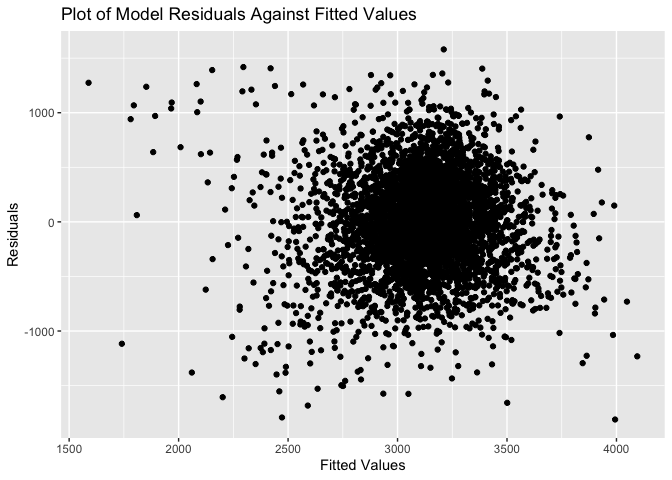
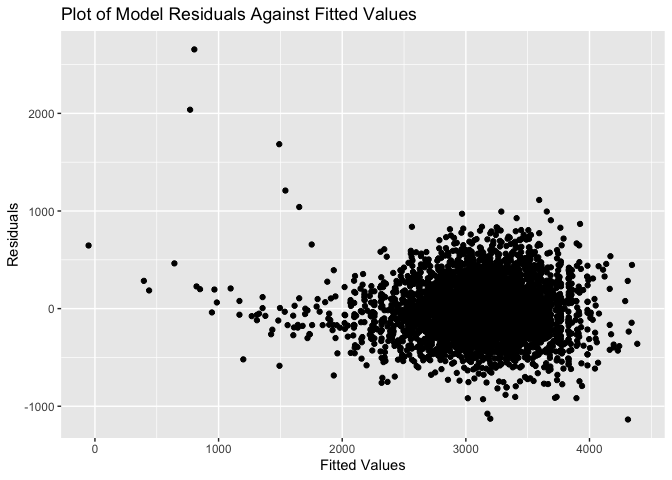
Problem 2

diff --git a/p8105_hw6_zz2899.md b/p8105_hw6_zz2899.md
@@ -8,7 +8,7 @@ Zoey Zhao
 ### Build a model
 
 Considering baby’s birth weight as a outcome might depend on mother’s
-age, smoking status, gestational age, and weight at delivery.
+age, baby’s length and head circumference.
 
 ``` r
 birthweight<- 
@@ -16,8 +16,23 @@ birthweight<-
   mutate(babysex = as.factor(babysex))%>%
   na.omit()
 
-fit1 = lm(bwt ~ momage + smoken + gaweeks + delwt, data = birthweight)
+fit1 <- lm(bwt ~ momage + blength + bhead + blength*bhead +  momage*blength +momage*bhead + momage*blength*bhead, data = birthweight)
+
+fit1%>%
+  broom::tidy() %>% 
+  knitr::kable(digits = 3)
 ```
+
+| term                 |  estimate | std.error | statistic | p.value |
+|:---------------------|----------:|----------:|----------:|--------:|
+| (Intercept)          | 12337.376 |  4722.127 |     2.613 |   0.009 |
+| momage               |  -836.642 |   240.664 |    -3.476 |   0.001 |
+| blength              |  -276.060 |    98.109 |    -2.814 |   0.005 |
+| bhead                |  -432.312 |   142.930 |    -3.025 |   0.003 |
+| blength:bhead        |    11.289 |     2.937 |     3.844 |   0.000 |
+| momage:blength       |    16.373 |     4.979 |     3.288 |   0.001 |
+| momage:bhead         |    26.375 |     7.260 |     3.633 |   0.000 |
+| momage:blength:bhead |    -0.512 |     0.149 |    -3.445 |   0.001 |
 
 ``` r
 birthweight %>% 
@@ -48,7 +63,7 @@ cv_df =
 cv_df = 
   cv_df %>% 
   mutate(
-    fit1  = map(train, ~lm(bwt ~ momage + smoken + gaweeks + delwt, data = .x)),
+    fit1  = map(train, ~lm(bwt ~ momage + blength + bhead + blength*bhead +  momage*blength +momage*bhead + momage*blength*bhead, data = .x)),
     fit2  = map(train, ~lm(bwt ~ blength + gaweeks, data = .x)),
     fit3  = map(train, ~lm(bwt ~ blength + bhead + babysex + blength*bhead + bhead*babysex + blength*babysex + blength*babysex*bhead, data = .x))) %>% 
   mutate(
@@ -68,9 +83,128 @@ cv_df %>%
 ```
 
 ![](p8105_hw6_zz2899_files/figure-gfm/unnamed-chunk-5-1.png)<!-- -->
-According to the result of cross-validation, the RMSE for the third
-model (the one using head circumference, length, sex, and all
-interactions between these) is the smallest, indicating that this model
-could be better than other two models.
+According to the result of cross-validation, the RMSEs for the first and
+the third model are smaller than the second one, indicating that the
+second model might not be as good as the first and the third one.
 
 # Problem 2
+
+``` r
+weather_df = 
+  rnoaa::meteo_pull_monitors(
+    c("USW00094728"),
+    var = c("PRCP", "TMIN", "TMAX"), 
+    date_min = "2017-01-01",
+    date_max = "2017-12-31") %>%
+  mutate(
+    name = recode(id, USW00094728 = "CentralPark_NY"),
+    tmin = tmin / 10,
+    tmax = tmax / 10) %>%
+  select(name, id, everything())
+```
+
+``` r
+fit4 <-
+  lm(tmax ~ tmin, data = weather_df) 
+
+fit4%>% 
+  broom::tidy() %>% 
+  knitr::kable(digits = 3)
+```
+
+| term        | estimate | std.error | statistic | p.value |
+|:------------|---------:|----------:|----------:|--------:|
+| (Intercept) |    7.209 |     0.226 |    31.847 |       0 |
+| tmin        |    1.039 |     0.017 |    61.161 |       0 |
+
+Use 5000 bootstrap samples and, for each bootstrap sample, produce
+estimates of these two quantities.
+
+``` r
+boot_sample <- function(df) {
+  sample_frac(df, replace = TRUE)
+}
+
+boot_straps = 
+  tibble(
+    strap_number = 1:5000,
+    strap_sample = rerun(5000, boot_sample(weather_df))
+  )
+```
+
+``` r
+bootstrap_results <- 
+  boot_straps %>% 
+  mutate(
+    models = map(strap_sample, ~lm(tmax ~ tmin, data = .x) ),
+    results = map(models, broom::glance)) %>% 
+  select(-strap_sample, -models) %>% 
+  unnest(results) 
+
+bootstrap_results%>%
+  summarize(
+    ci_lower = quantile(adj.r.squared, 0.025), 
+    ci_upper = quantile(adj.r.squared, 0.975))
+```
+
+    ## # A tibble: 1 × 2
+    ##   ci_lower ci_upper
+    ##      <dbl>    <dbl>
+    ## 1    0.893    0.927
+
+``` r
+bootstrap_results %>% 
+  ggplot(aes(x = adj.r.squared)) + geom_density() +
+  labs(title = "Distribution of Adjusted R-squared",
+       x = "Adjusted R-squared")
+```
+
+![](p8105_hw6_zz2899_files/figure-gfm/unnamed-chunk-10-1.png)<!-- -->
+
+``` r
+bootstrap_results2 <- 
+  boot_straps %>% 
+  mutate(
+    models = map(strap_sample, ~lm(tmax ~ tmin, data = .x) ),
+    results = map(models, broom::tidy)) %>% 
+  select(-strap_sample, -models) %>% 
+  unnest(results)
+
+log_product<-
+  bootstrap_results2 %>% 
+  select(term, estimate)%>%
+  pivot_wider(names_from = term, values_from = estimate)%>%
+  unnest()%>%
+  janitor::clean_names()%>%
+  mutate(log_product = intercept*tmin)%>%
+  select(log_product)
+```
+
+    ## Warning: Values are not uniquely identified; output will contain list-cols.
+    ## * Use `values_fn = list` to suppress this warning.
+    ## * Use `values_fn = length` to identify where the duplicates arise
+    ## * Use `values_fn = {summary_fun}` to summarise duplicates
+
+    ## Warning: `cols` is now required when using unnest().
+    ## Please use `cols = c(`(Intercept)`, tmin)`
+
+``` r
+log_product%>%
+  summarize(
+    ci_lower = quantile(log_product, 0.025), 
+    ci_upper = quantile(log_product, 0.975))
+```
+
+    ## # A tibble: 1 × 2
+    ##   ci_lower ci_upper
+    ##      <dbl>    <dbl>
+    ## 1     7.15     7.83
+
+``` r
+log_product %>% 
+  ggplot(aes(x = log_product)) + geom_density() +
+  labs(title = "Distribution of Log(Beta0*Beta1)",
+       x = "Log(Beta0*Beta1)")
+```
+
+![](p8105_hw6_zz2899_files/figure-gfm/unnamed-chunk-12-1.png)<!-- -->
